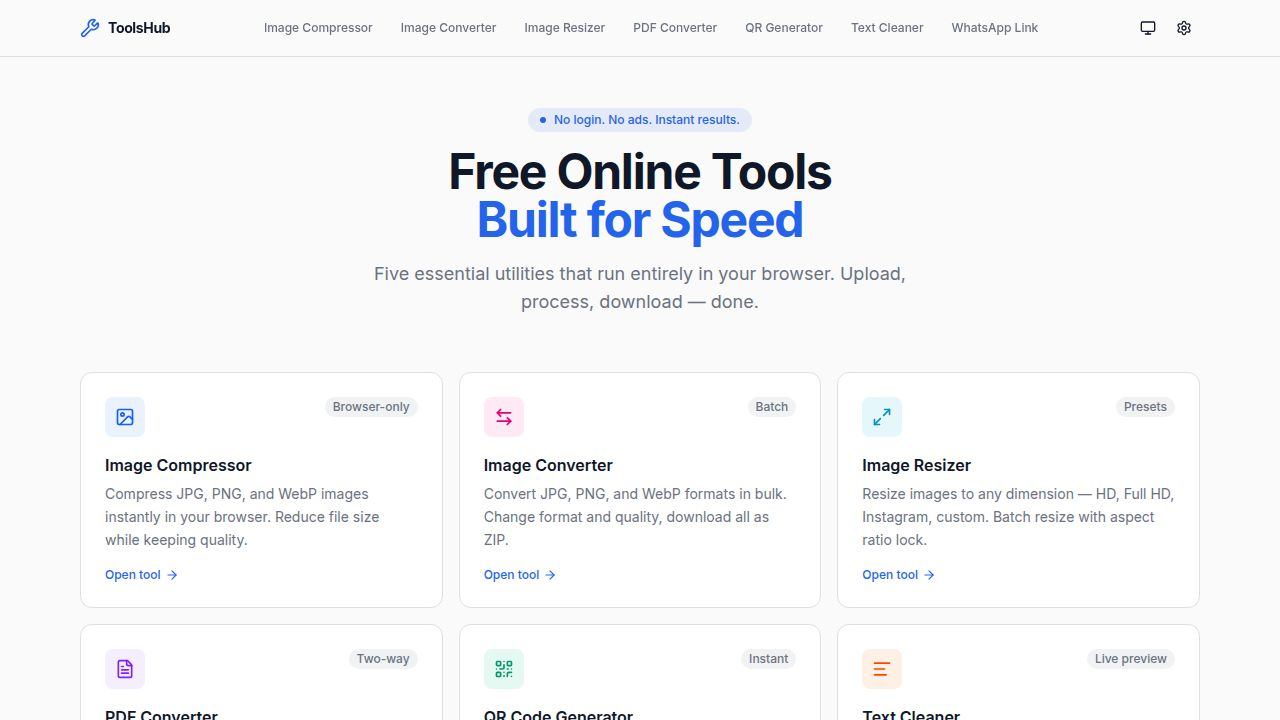
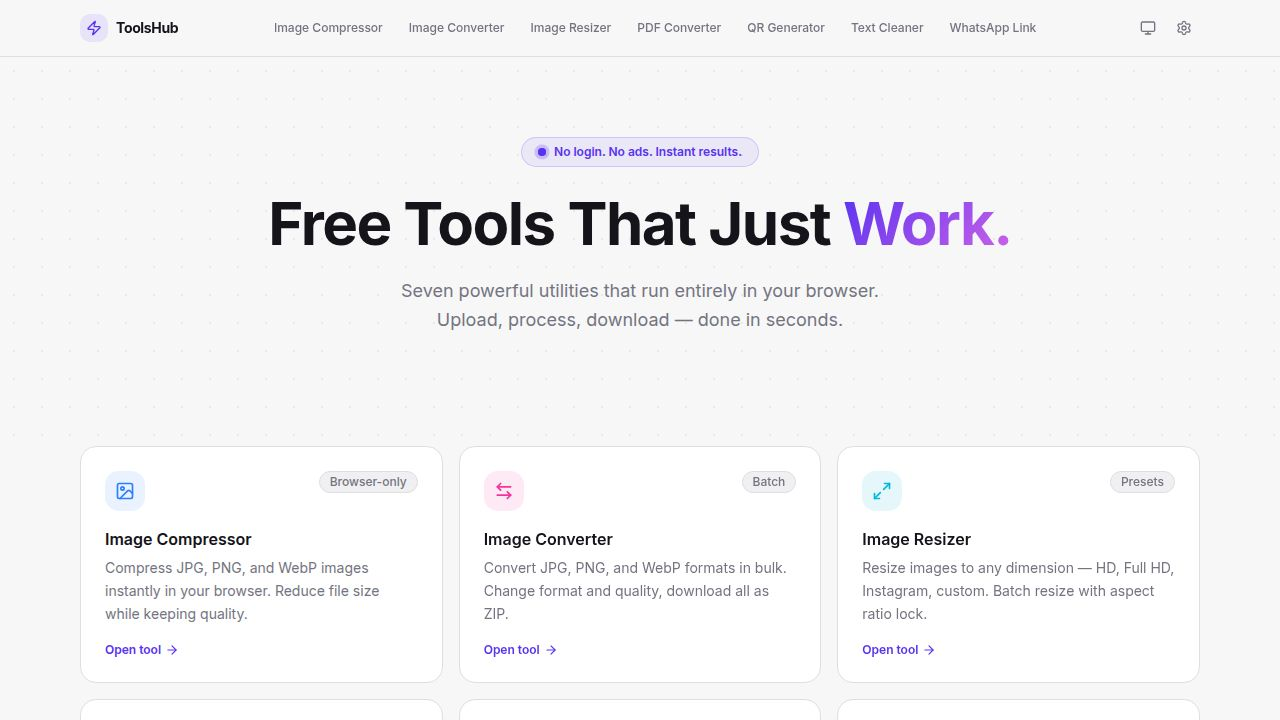
Add a permanent border to the navigation bar
Update Layout.tsx to ensure the header always displays a bottom border, improving visual separation between the header and page content.

Replit-Commit-Author: Agent
Replit-Commit-Session-Id: 8eaee541-2cca-4861-b1a7-03e4d218ac75
Replit-Commit-Checkpoint-Type: full_checkpoint
Replit-Commit-Event-Id: 7831b815-5d0f-4ca4-b0d3-f6ec886a2723
Replit-Commit-Screenshot-Url: https://storage.googleapis.com/screenshot-production-us-central1/21a0998d-47cd-463b-ac62-f1679297082e/8eaee541-2cca-4861-b1a7-03e4d218ac75/F5KUfeE
Replit-Helium-Checkpoint-Created: true

diff --git a/artifacts/tools-hub/src/components/Layout.tsx b/artifacts/tools-hub/src/components/Layout.tsx
@@ -58,10 +58,10 @@ export function Layout({ children }: { children: React.ReactNode }) {
     <div className="min-h-screen bg-background text-foreground flex flex-col">
       {/* ── Header ── */}
       <header
-        className={`sticky top-0 z-50 border-b transition-all duration-200 ${
+        className={`sticky top-0 z-50 border-b border-border transition-all duration-200 ${
           scrolled
-            ? "border-border bg-background/80 backdrop-blur-xl shadow-sm"
-            : "border-transparent bg-background/60 backdrop-blur-md"
+            ? "bg-background/80 backdrop-blur-xl shadow-sm"
+            : "bg-background/95 backdrop-blur-md"
         }`}
       >
         <div className="max-w-6xl mx-auto px-4 h-14 flex items-center justify-between gap-4">